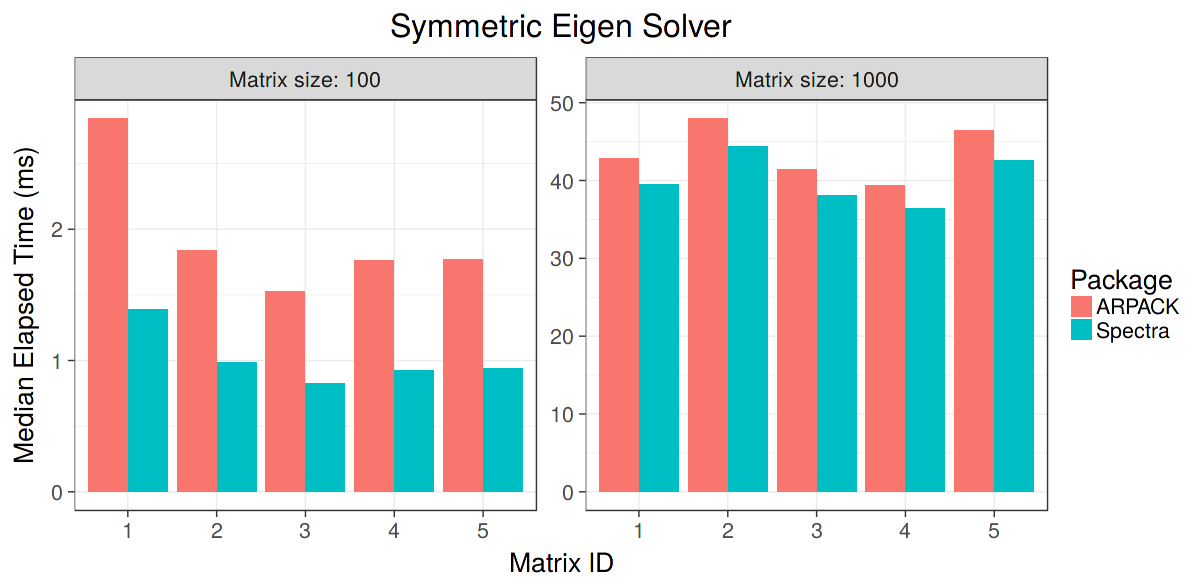
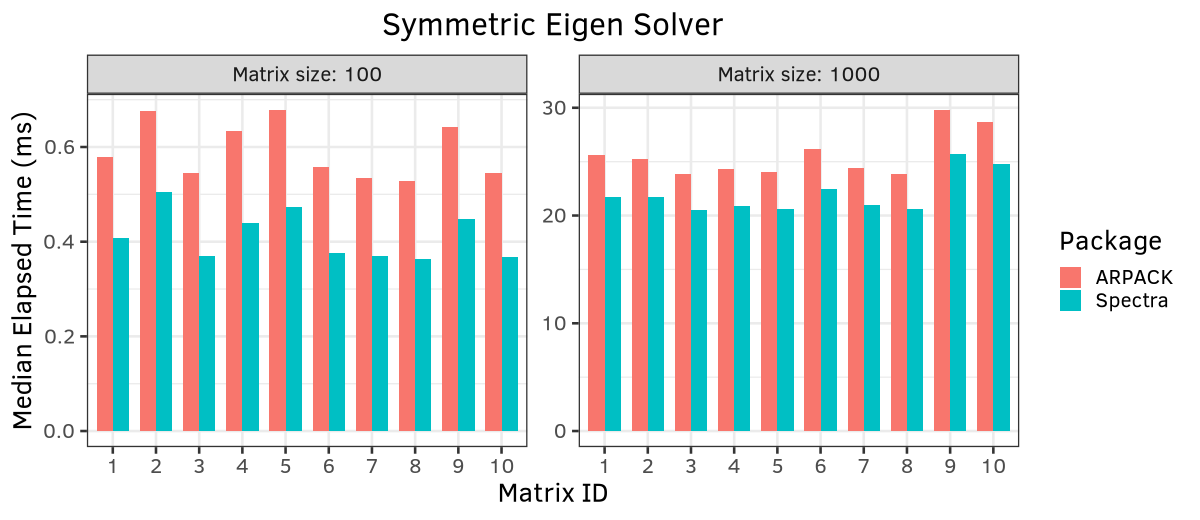
new benchmarking results

diff --git a/performance.md b/performance.md
@@ -10,22 +10,22 @@ libraries, based on the following environment setting:
 
 <h4><span class="label label-success">Hardware</span></h4>
 
-- CPU: Intel Core i7-4700HQ 2.40GHz x 8
-- Memory: 8GB
+- CPU: Intel Core i7-11800H 2.30GHz x 16
+- Memory: 32GB
 
 <h4><span class="label label-success">Software</span></h4>
 
-- OS: Fedora 24 64-bit
-- Compiler: GCC 6.3.1 with flag `g++ -Wall -O2 -mtune=native -mavx`
-- Spectra: version 0.5.0
-- BLAS: OpenBLAS 0.2.19, single threaded
-- ARPACK: ARPACK-NG 3.3.0
-- R: version 3.3.2
+- OS: Solus 4.2 64-bit
+- Compiler: Clang 11.1.0 with flag `clang++ -Wall -O2 -march=native`
+- Spectra: v1.0.0
+- BLAS: OpenBLAS 0.3.15, single threaded
+- ARPACK: ARPACK-NG 3.7.0
+- R: version 4.1.0
 - R packages
-  - RSpectra 0.12-0
-  - svd 0.4
-  - irlba 2.1.2
-  - microbenchmark 1.4.2.1
+  - RSpectra 0.16-0
+  - svd 0.5
+  - irlba 2.3.3
+  - microbenchmark 1.4.7
 
 ### Comparison with ARPACK
 
@@ -96,7 +96,7 @@ dat$type = ifelse(grepl("sparse", dat$expr), "Matrix type: Sparse",
 dat$expr = factor(gsub("\\[sparse\\]", "", dat$expr),
                   levels = c("svd", "irlba", "propack", "trlan", "svds"))
 dat = dat %>% group_by(expr, type) %>% summarize(medtime = median(time) / 1e6)
-dat$Package = ifelse(grepl("svds", dat$expr), "Spectra", "Other")
+dat$Package = ifelse(grepl("svds", dat$expr), "RSpectra", "Other")
 
 ggplot(dat, aes(x = expr, y = medtime)) +
     facet_wrap(~ type, scales = "free", ncol = 2) +
